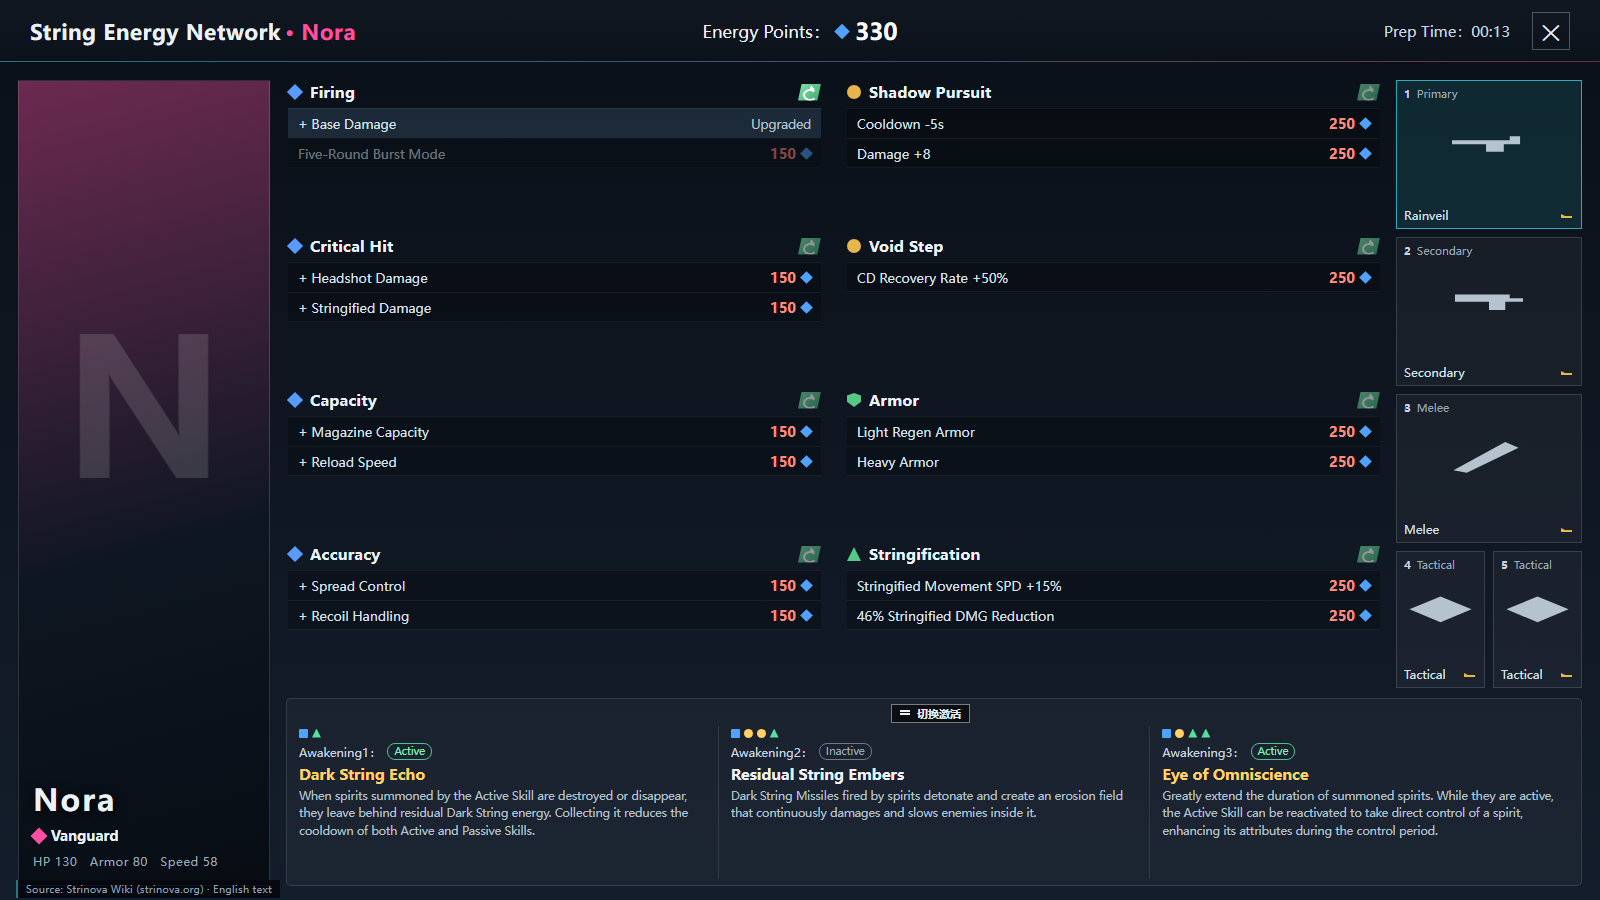
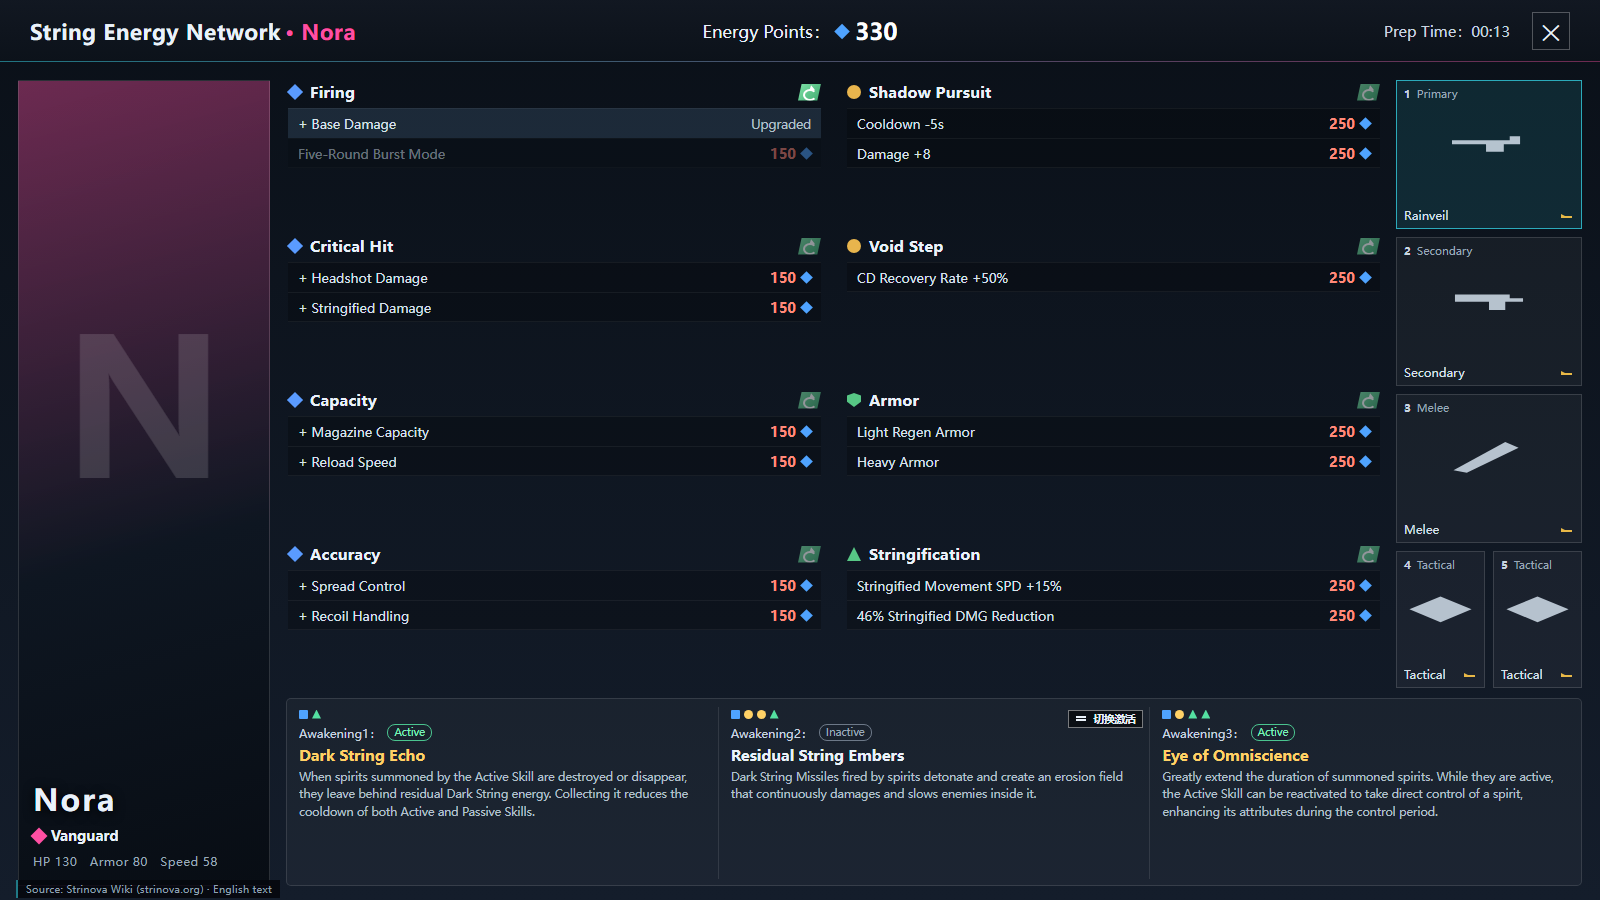
style: 切换激活按钮移入目标觉醒卡右上角（去掉单独条带）
- 删除觉醒面板顶部条带/分割线，三列内容恢复从卡片顶部开始
- 按钮绝对定位在目标卡内部右上角（选三觉→觉醒2，选二觉→觉醒3），距右/上约5px
- 目标卡首行（形色图标行/觉醒N+徽章行）右侧预留按钮宽度，不压字、不影响其他卡
- 编辑器示意区与预览同步

Changed region(s): [[0.1875, 0.7778, 0.9688, 0.9333]]

diff --git a/docs/ui/growth-real-en.html b/docs/ui/growth-real-en.html
@@ -86,10 +86,10 @@ body { font-family: "Microsoft YaHei", "Segoe UI", sans-serif; color: #EAF2FA; b
     border-top:2px solid transparent; border-bottom:2px solid transparent; transform:rotate(180deg); }
   .awakenPanel { height:188px; flex:none; position:relative; display:flex; align-items:stretch;
     background:rgba(255,255,255,.035); border:1px solid rgba(255,255,255,.12); border-radius:5px;
-    padding:27px 0 6px; }
-  .awtoggle { position:absolute; top:5px; z-index:3; height:19px; padding:0 8px;
+    padding:8px 0 6px; }
+  .awtoggle { position:absolute; right:6px; top:3px; z-index:3; height:18px; padding:0 7px;
     background:rgba(0,0,0,.55); border:1px solid rgba(255,255,255,.45); color:#EAF2FA;
-    font-size:11px; font-weight:700; display:flex; align-items:center; gap:5px; font-family:inherit; }
+    font-size:10.5px; font-weight:700; display:flex; align-items:center; gap:5px; font-family:inherit; }
   .awswap { width:12px; height:9px; position:relative; display:inline-block; }
   .awswap::before { content:''; position:absolute; left:0; top:1px; width:10px; height:2px; background:#EAF2FA; }
   .awswap::after { content:''; position:absolute; left:0; top:4px; width:10px; height:2px;
@@ -278,10 +278,9 @@ body { font-family: "Microsoft YaHei", "Segoe UI", sans-serif; color: #EAF2FA; b
           </div>
         </div>
         <div class="awakenPanel">
-          <button class="awtoggle" style="left:calc(50% - 43px)">
-            <i class="awswap"></i>切换激活</button>
           
     <div class="acard active">
+      
       <div class="aneed"><i class="needneed sq" style="background:#4FA3FF"></i><i class="needneed tri" style="background:#54E0A0"></i></div>
       <div class="atop">
         <span class="alabel">Awakening1：</span>
@@ -291,6 +290,7 @@ body { font-family: "Microsoft YaHei", "Segoe UI", sans-serif; color: #EAF2FA; b
       <div class="adesc">When spirits summoned by the Active Skill are destroyed or disappear, they leave behind residual Dark String energy. Collecting it reduces the cooldown of both Active and Passive Skills.</div>
     </div>
     <div class="acard">
+      <button class="awtoggle"><i class="awswap"></i>切换激活</button>
       <div class="aneed"><i class="needneed sq" style="background:#4FA3FF"></i><i class="needneed ci" style="background:#FFD166"></i><i class="needneed ci" style="background:#FFD166"></i><i class="needneed tri" style="background:#54E0A0"></i></div>
       <div class="atop">
         <span class="alabel">Awakening2：</span>
@@ -300,6 +300,7 @@ body { font-family: "Microsoft YaHei", "Segoe UI", sans-serif; color: #EAF2FA; b
       <div class="adesc">Dark String Missiles fired by spirits detonate and create an erosion field that continuously damages and slows enemies inside it.</div>
     </div>
     <div class="acard active">
+      
       <div class="aneed"><i class="needneed sq" style="background:#4FA3FF"></i><i class="needneed ci" style="background:#FFD166"></i><i class="needneed tri" style="background:#54E0A0"></i><i class="needneed tri" style="background:#54E0A0"></i></div>
       <div class="atop">
         <span class="alabel">Awakening3：</span>

diff --git a/docs/ui/growth-real-zh.html b/docs/ui/growth-real-zh.html
@@ -86,10 +86,10 @@ body { font-family: "Microsoft YaHei", "Segoe UI", sans-serif; color: #EAF2FA; b
     border-top:2px solid transparent; border-bottom:2px solid transparent; transform:rotate(180deg); }
   .awakenPanel { height:188px; flex:none; position:relative; display:flex; align-items:stretch;
     background:rgba(255,255,255,.035); border:1px solid rgba(255,255,255,.12); border-radius:5px;
-    padding:27px 0 6px; }
-  .awtoggle { position:absolute; top:5px; z-index:3; height:19px; padding:0 8px;
+    padding:8px 0 6px; }
+  .awtoggle { position:absolute; right:6px; top:3px; z-index:3; height:18px; padding:0 7px;
     background:rgba(0,0,0,.55); border:1px solid rgba(255,255,255,.45); color:#EAF2FA;
-    font-size:11px; font-weight:700; display:flex; align-items:center; gap:5px; font-family:inherit; }
+    font-size:10.5px; font-weight:700; display:flex; align-items:center; gap:5px; font-family:inherit; }
   .awswap { width:12px; height:9px; position:relative; display:inline-block; }
   .awswap::before { content:''; position:absolute; left:0; top:1px; width:10px; height:2px; background:#EAF2FA; }
   .awswap::after { content:''; position:absolute; left:0; top:4px; width:10px; height:2px;
@@ -278,10 +278,9 @@ body { font-family: "Microsoft YaHei", "Segoe UI", sans-serif; color: #EAF2FA; b
           </div>
         </div>
         <div class="awakenPanel">
-          <button class="awtoggle" style="left:calc(50% - 43px)">
-            <i class="awswap"></i>切换激活</button>
           
     <div class="acard active">
+      
       <div class="aneed"><i class="needneed sq" style="background:#4FA3FF"></i><i class="needneed tri" style="background:#54E0A0"></i></div>
       <div class="atop">
         <span class="alabel">觉醒1：</span>
@@ -291,6 +290,7 @@ body { font-family: "Microsoft YaHei", "Segoe UI", sans-serif; color: #EAF2FA; b
       <div class="adesc">主动技能召唤的念灵在被摧毁或消失时，会残余部分暗弦能量，靠近拾取后返还主动技能和被动技能冷却</div>
     </div>
     <div class="acard">
+      <button class="awtoggle"><i class="awswap"></i>切换激活</button>
       <div class="aneed"><i class="needneed sq" style="background:#4FA3FF"></i><i class="needneed ci" style="background:#FFD166"></i><i class="needneed ci" style="background:#FFD166"></i><i class="needneed tri" style="background:#54E0A0"></i></div>
       <div class="atop">
         <span class="alabel">觉醒2：</span>
@@ -300,6 +300,7 @@ body { font-family: "Microsoft YaHei", "Segoe UI", sans-serif; color: #EAF2FA; b
       <div class="adesc">念灵发射的暗弦飞弹在爆炸后会留下侵蚀区域，对区域中的敌人持续造成伤害和减速</div>
     </div>
     <div class="acard active">
+      
       <div class="aneed"><i class="needneed sq" style="background:#4FA3FF"></i><i class="needneed ci" style="background:#FFD166"></i><i class="needneed tri" style="background:#54E0A0"></i><i class="needneed tri" style="background:#54E0A0"></i></div>
       <div class="atop">
         <span class="alabel">觉醒3：</span>

diff --git a/common/src/main/java/com/hhdxcz/strinova/client/StrinovaGrowthEditScreen.java b/common/src/main/java/com/hhdxcz/strinova/client/StrinovaGrowthEditScreen.java
@@ -761,10 +761,7 @@ public class StrinovaGrowthEditScreen extends Screen {
             int dividerX = this.mapX(x0 + Math.round(totalW * i / 3.0F));
             graphics.fill(dividerX, mappedY + 2, dividerX + 1, mappedY + mappedH - 2, 0x33EAF2FA);
         }
-        // 顶部条带：按钮跟随当前（mock）选择，显示在下次点击会激活的那一格上方
-        int topStrip = clamp(Math.round(totalH * 0.26F), 16, 24);
-        int stripY = this.mapY(y0 + topStrip);
-        graphics.fill(mappedX + 2, stripY, mappedX + mappedW - 2, stripY + 1, 0x22EAF2FA);
+        // 「⇄ 切换激活」绝对定位在目标卡（下次点击会激活的那一格）右上角
         int mockSelected = StrinovaGrowthState.hasData()
                 ? StrinovaGrowthState.selectedAwakening23() : 3;
         int targetColumn = mockSelected == 3 ? 1 : 2; // 觉醒2=1, 觉醒3=2
@@ -772,33 +769,41 @@ public class StrinovaGrowthEditScreen extends Screen {
         int targetRight = x0 + Math.round(totalW * (targetColumn + 1) / 3.0F);
         int targetCellW = Math.max(1, targetRight - targetLeft);
         int toggleW = targetCellW >= 170 ? clamp(Math.round(targetCellW * 0.30F), 44, 60) : 16;
-        int toggleX = targetLeft + (targetCellW - toggleW) / 2;
-        int toggleY = y0 + Math.max(1, (topStrip - 14) / 2);
-        // 三份内容示意（mock：第 1 个已激活、其余未激活），统一从条带下方开始
+        int toggleX = Math.max(targetLeft + 3, targetRight - toggleW - 5);
+        int toggleY = y0 + 5;
+        // 三份内容示意（mock：第 1 个已激活、其余未激活），从卡片顶部开始；仅目标卡首行右侧预留按钮宽度
         List<StrinovaWikiData.Awakening> source = (this.wiki == null || this.wiki.awakenings() == null)
                 ? List.of() : this.wiki.awakenings();
         int activeNameColor = ui.awakenNameColor != 0 ? ui.awakenNameColor : COLOR_GOLD;
         int inactiveNameColor = ui.awakenNameColor != 0
                 ? ((ui.awakenNameColor & 0x00FFFFFF) | 0xCC000000) : COLOR_TEXT_DIM;
-        int contentTop = y0 + topStrip + 2;
+        int contentTop = y0 + 5;
         for (int i = 0; i < 3; i++) {
             int cellLeft = x0 + Math.round(totalW * i / 3.0F);
             int cellRight = x0 + Math.round(totalW * (i + 1) / 3.0F);
+            int firstRowReserve = (i == targetColumn) ? toggleW + 8 : 0;
             this.drawAwakeningCellPreview(graphics, source, i, cellLeft, cellRight, contentTop,
-                    activeNameColor, inactiveNameColor);
+                    firstRowReserve, activeNameColor, inactiveNameColor);
         }
-        // 「⇄ 切换激活」画在目标列上方居中
+        // 「⇄ 切换激活」画在目标卡右上角
         this.drawMiniAwakenToggle(graphics, toggleX, toggleY, toggleW, 14);
     }
 
     /** 示意图里的一份觉醒：需求图标行 → 「觉醒N：」+ 圆角徽章 → 名称 → 描述。 */
     private void drawAwakeningCellPreview(GuiGraphics graphics, List<StrinovaWikiData.Awakening> source,
                                           int index, int cellLeft, int cellRight, int contentTop,
+                                          int firstRowReserve,
                                           int activeNameColor, int inactiveNameColor) {
         PreviewLayout l = this.preview;
         int mappedX = this.mapX(cellLeft) + 2;
         int mappedRight = this.mapX(cellRight) - 2;
         int maxW = Math.max(8, mappedRight - mappedX);
+        // 目标卡首行右侧给按钮预留宽度（其他卡 maxW 不变）
+        int mappedRightFirst = mappedRight;
+        if (firstRowReserve > 0) {
+            mappedRightFirst = Math.min(mappedRight, this.mapX(cellRight - firstRowReserve) - 2);
+        }
+        int maxFirstW = Math.max(8, mappedRightFirst - mappedX);
         int top = this.mapY(contentTop);
         int bottom = this.mapY(l.awakenTop + l.awakenHeight) - 2;
         boolean active = index == 0; // 示意图 mock 状态
@@ -807,13 +812,13 @@ public class StrinovaGrowthEditScreen extends Screen {
         int needS = src == null ? 1 : Math.max(0, src.needSkill());
         int needD = src == null ? 1 : Math.max(0, src.needDefense());
         int total = Math.max(1, needW + needS + needD);
-        int shape = clamp(maxW / (total + 1), 3, 6);
+        int shape = clamp(maxFirstW / (total + 1), 3, 6);
         int cursor = mappedX;
         for (int k = 0; k < 3; k++) {
             int count = k == 0 ? needW : (k == 1 ? needS : needD);
             int base = k == 0 ? 0xFF4FA3FF : (k == 1 ? 0xFFFFD166 : 0xFF54E0A0);
             int color = (base & 0x00FFFFFF) | 0x88000000;
-            for (int n = 0; n < count && cursor + shape <= mappedRight; n++) {
+            for (int n = 0; n < count && cursor + shape <= mappedRightFirst; n++) {
                 switch (k) {
                     case 0 -> graphics.fill(cursor, top, cursor + shape, top + shape, color);
                     case 1 -> this.drawMiniCircle(graphics, cursor, top, shape, color);
@@ -831,13 +836,13 @@ public class StrinovaGrowthEditScreen extends Screen {
         String label = "觉醒" + (index + 1) + "：";
         String statusText = active ? "已激活" : "未激活";
         int badgeTextW = this.font.width(statusText);
-        int badgeW = Math.min(badgeTextW + 8, Math.max(8, maxW));
+        int badgeW = Math.min(badgeTextW + 8, Math.max(8, maxFirstW));
         int badgeH = 13;
-        String labelShown = this.truncate(label, Math.max(4, maxW - badgeW - 3));
+        String labelShown = this.truncate(label, Math.max(4, maxFirstW - badgeW - 3));
         graphics.drawString(this.font, labelShown, mappedX, lineY + 2, COLOR_TEXT_DIM, false);
         int badgeX = mappedX + this.font.width(labelShown) + 3;
-        if (badgeX + badgeW > mappedRight) {
-            badgeX = Math.max(mappedX, mappedRight - badgeW);
+        if (badgeX + badgeW > mappedRightFirst) {
+            badgeX = Math.max(mappedX, mappedRightFirst - badgeW);
         }
         this.drawMiniRoundedOutline(graphics, badgeX, lineY, badgeW, badgeH, 2,
                 active ? 0xFF54E0A0 : 0x998A94A0);
@@ -846,7 +851,7 @@ public class StrinovaGrowthEditScreen extends Screen {
                 badgeX + Math.max(1, (badgeW - this.font.width(badgeShown)) / 2),
                 lineY + 2, active ? 0xFF54E0A0 : 0xFF8A94A0, false);
         lineY += badgeH + 3;
-        // 名称
+        // 名称（名称/描述可用整格宽度）
         if (lineY + 9 <= bottom) {
             String name = src == null || src.name() == null ? ("觉醒" + (index + 1)) : src.name();
             graphics.drawString(this.font, this.truncate(name, maxW), mappedX, lineY,

diff --git a/common/src/main/java/com/hhdxcz/strinova/client/StrinovaGrowthScreen.java b/common/src/main/java/com/hhdxcz/strinova/client/StrinovaGrowthScreen.java
@@ -909,9 +909,9 @@ public class StrinovaGrowthScreen extends Screen {
     /**
      * 渲染觉醒区（横跨立绘右侧到 innerRight、位于网络 + 武器区下方）：
      * 一个整体圆角面板，内部 2 条细竖线分成 3 等份；每份自上而下为
-     * 需求图标行 → 「觉醒N：」+ 圆角状态徽章 → 名称 → 描述（自动换行 1~3 行）；
-     * 面板顶部留出约 20~24px 条带放「⇄ 切换激活」按钮——按钮跟随当前选择，
-     * 显示在「下一次点击会激活的那一格」上方（选三觉时在觉醒2上方，选二觉时在觉醒3上方）。
+     * 需求图标行 → 「觉醒N：」+ 圆角描边状态徽章 → 名称 → 描述（自动换行 1~3 行）；
+     * 「⇄ 切换激活」按钮绝对定位在目标卡右上角（已选三觉 → 觉醒2 卡；已选二觉 → 觉醒3 卡），
+     * 目标卡首行右侧预留按钮宽度，避免压住形色图标行与「觉醒N：」文字，其他卡不受影响。
      */
     private void renderAwakenings(GuiGraphics graphics, int mouseX, int mouseY) {
         List<StrinovaGrowthState.Awakening> awakenings = StrinovaGrowthState.awakenings();
@@ -935,18 +935,15 @@ public class StrinovaGrowthScreen extends Screen {
             graphics.fill(dividerX, y0 + 5, dividerX + 1, y0 + totalH - 5, 0x33EAF2FA);
         }
 
-        // 顶部条带：按钮跟随当前选择，位于「下一次点击会激活的那一格」上方
-        int topStrip = clamp(Math.round(totalH * 0.26F), 16, 24);
-        graphics.fill(x0 + 6, y0 + topStrip, x0 + totalW - 6, y0 + topStrip + 1, 0x22EAF2FA);
+        // 「⇄ 切换激活」：绝对定位在目标卡（下次点击会激活的那一格）右上角、距右/上各约 5px
         int targetColumn = StrinovaGrowthState.selectedAwakening23() == 3 ? 1 : 2; // 觉醒2=1, 觉醒3=2
         int colLeft = x0 + Math.round(totalW * targetColumn / 3.0F);
         int colRight = x0 + Math.round(totalW * (targetColumn + 1) / 3.0F);
         int targetCellW = Math.max(1, colRight - colLeft);
         int toggleW = targetCellW >= 170 ? clamp(Math.round(targetCellW * 0.30F), 44, 60) : 16;
         int toggleH = 14;
-        int toggleX = clamp(colLeft + (targetCellW - toggleW) / 2,
-                x0 + 2, Math.max(x0 + 2, x0 + totalW - toggleW - 2));
-        int toggleY = y0 + Math.max(1, (topStrip - toggleH) / 2);
+        int toggleX = Math.max(colLeft + 3, colRight - toggleW - 5);
+        int toggleY = y0 + 5;
         this.awakenToggleX = toggleX;
         this.awakenToggleY = toggleY;
         this.awakenToggleW = toggleW;
@@ -957,32 +954,38 @@ public class StrinovaGrowthScreen extends Screen {
                 && mouseY >= toggleY && mouseY < toggleY + toggleH;
         this.hoveredAwakenToggle = hoveredToggle;
 
-        // 3 等份内容统一从顶部条带下方开始（不再为按钮预留第三列空间）
-        int contentTop = y0 + topStrip + 2;
+        // 3 等份内容从卡片顶部开始；仅目标卡的首行右侧为按钮预留宽度
+        int contentTop = y0 + 5;
         for (int i = 0; i < awakenings.size() && i < 3; i++) {
             int cellX = x0 + Math.round(totalW * i / 3.0F);
             int cellRight = x0 + Math.round(totalW * (i + 1) / 3.0F);
+            int firstRowReserve = (i == targetColumn) ? toggleW + 8 : 0;
             this.renderAwakeningCell(graphics, awakenings.get(i), i, cellX, cellRight,
-                    contentTop, mouseX, mouseY);
+                    contentTop, firstRowReserve, mouseX, mouseY);
         }
         this.renderAwakenToggle(graphics, toggleX, toggleY, toggleW, toggleH, enabled, hoveredToggle);
     }
 
-    /** 觉醒面板中的一份：需求图标行 → 「觉醒N：」+ 圆角状态徽章 → 名称 → 描述（自动换行）。 */
+    /** 觉醒面板中的一份：需求图标行 → 「觉醒N：」+ 圆角描边状态徽章 → 名称 → 描述（自动换行）。 */
     private void renderAwakeningCell(GuiGraphics graphics, StrinovaGrowthState.Awakening awakening,
                                      int index, int cellX, int cellRight, int contentTop,
-                                     int mouseX, int mouseY) {
+                                     int firstRowReserve, int mouseX, int mouseY) {
         boolean active = awakening.active();
         if (mouseX >= cellX && mouseX < cellRight
                 && mouseY >= this.awakenTop && mouseY < this.awakenTop + this.awakenHeight) {
             this.hoveredAwakening = index;
         }
         int contentLeft = cellX + 5;
-        int contentRight = cellRight - 5;
-        if (contentRight < contentLeft + 12) {
-            contentRight = cellRight - 4;
+        int contentRightFull = cellRight - 5;
+        if (contentRightFull < contentLeft + 12) {
+            contentRightFull = cellRight - 4;
         }
-        int maxWidth = Math.max(8, contentRight - contentLeft);
+        int contentRightFirst = contentRightFull - firstRowReserve;
+        if (contentRightFirst < contentLeft + 12) {
+            contentRightFirst = contentRightFull;
+        }
+        int maxWidth = Math.max(8, contentRightFirst - contentLeft);
+        int fullWidth = Math.max(8, contentRightFull - contentLeft);
         int top = contentTop;
         int bottom = this.awakenTop + this.awakenHeight - 3;
         if (top >= bottom) {
@@ -1038,10 +1041,10 @@ public class StrinovaGrowthScreen extends Screen {
         }
         this.drawStatusBadge(graphics, badgeX, y, badgeW, badgeH, active, statusText);
         y += badgeH + 3;
-        // 3) 名称（激活金色）
+        // 3) 名称（激活金色；按钮只在首行右侧，名称/描述可用整格宽度）
         if (y + 9 <= bottom) {
             graphics.drawString(this.font,
-                    truncate(awakening.name() == null ? "" : awakening.name(), maxWidth),
+                    truncate(awakening.name() == null ? "" : awakening.name(), fullWidth),
                     contentLeft, y, this.awakenNameColor(active), false);
             y += LINE_STEP;
         }
@@ -1049,7 +1052,7 @@ public class StrinovaGrowthScreen extends Screen {
         int maxLines = Math.min(this.showAwakenDescription ? 3 : 2,
                 Math.max(0, (bottom - y + 2) / LINE_STEP));
         if (maxLines > 0 && !isBlank(awakening.desc())) {
-            drawWrapped(graphics, Component.literal(awakening.desc()), contentLeft, y, maxWidth,
+            drawWrapped(graphics, Component.literal(awakening.desc()), contentLeft, y, fullWidth,
                     maxLines, 0xFFB4C0CC);
         }
     }
